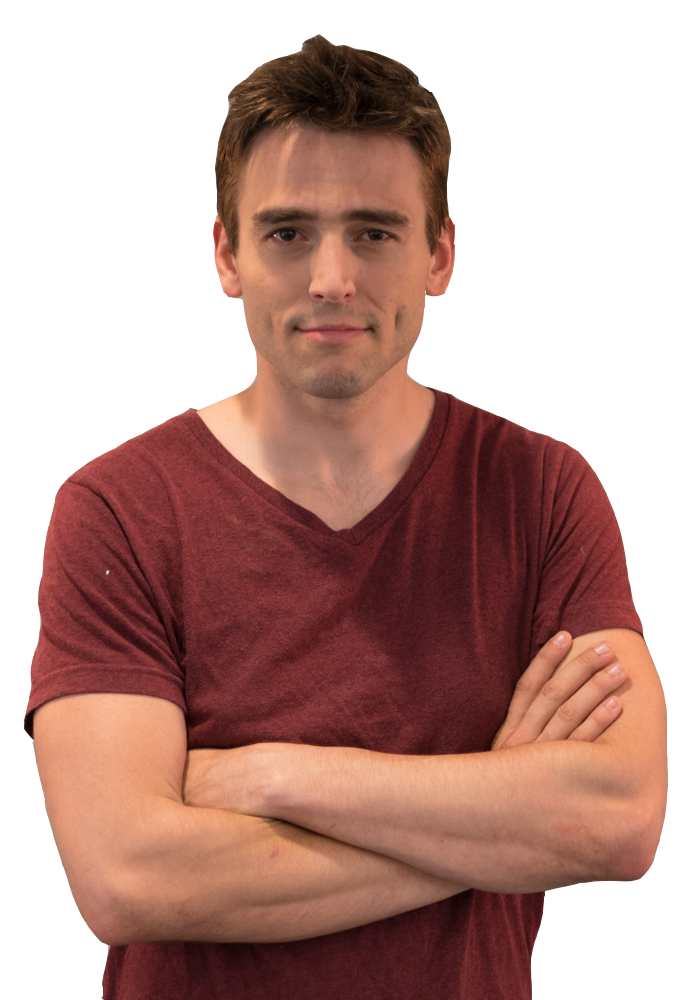
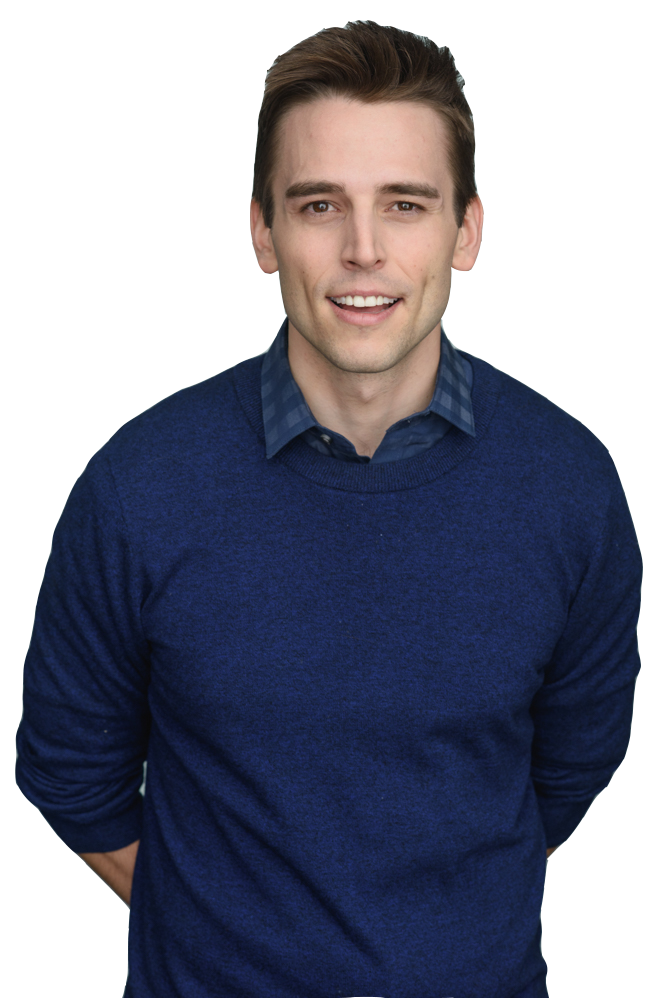
added photos and styling for finished look

diff --git a/public/stylesheets/style.min.css b/public/stylesheets/style.min.css
@@ -1,1 +1,1 @@
-*{margin:0;padding:0;box-sizing:border-box}body{font:14px 'Montserrat', sans-serif}a{color:#555}p{font-weight:bold}.section{position:relative;overflow:hidden;padding-top:80px}nav{background:transparent;box-shadow:none;top:0}nav .nav-wrapper .container{width:90%}nav ul a{font-size:20px;text-transform:uppercase}@media (max-width: 1691px){nav ul a{font-size:14px}}@media (max-width: 1358px){nav ul a{font-size:12px}}@media (max-width: 1307px){nav ul a{font-size:11px}}@media (max-width: 1258px){nav ul a{font-size:10px}}@media (max-width: 1209px){nav ul a{font-size:9px}}@media (max-width: 1164px){nav ul a{font-size:8px}}@media (max-width: 1115px){nav ul a{font-size:7px}}@media (max-width: 1066px){nav ul a{font-size:6px}}@media (max-width: 1020px){nav ul a{font-size:5px}}nav ul a:hover{background-color:transparent;color:#f3997b}nav ul .selected{border-bottom:2px solid white}@media (max-width: 992px){nav .social-media{position:absolute;text-align:center}}nav .social-media img{box-sizing:border-box;width:10%;display:inline;padding:5px;margin:15px 0 0 0}@media (max-width: 992px){nav .social-media img{width:18%}}@media (max-width: 761px){nav .social-media img{width:16%}}@media (max-width: 600px){nav .social-media img{width:8%}}@media (max-width: 375px){nav .social-media img{width:10%}}.navbar-fixed{position:fixed;right:0;left:0;z-index:1030}.side-nav{width:100% !important;background-color:#f3997b}.side-nav li a{font-size:40px;line-height:70px;padding:50px 32px}#footer{background-color:#303030;min-height:100px}.scroll-down{position:absolute;left:calc(50% - 25px);right:auto;bottom:10px;z-index:99;font-size:14px;text-align:center;text-transform:uppercase;color:#fff;-webkit-transition:color .314s ease;transition:color .314s ease}#home{min-height:840px;background:#1e2230 url(../images/home-background.jpg) no-repeat center bottom}@media (min-width: 769px) and (max-width: 992px){#home{min-height:50vh}}@media (min-width: 674px) and (max-width: 768px){#home{min-height:75vh}}@media (max-width: 673px){#home{min-height:50vh}}@media (max-width: 375px){#home{min-height:45vh}}#home .home-img{width:100%;margin:0 auto;align-self:center}#home .home-img img{display:block;margin:0 auto;width:100%}#home .scroll-down{color:#fff}#home .scroll-down a{color:#fff}#home .scroll-down i{display:block}#home .ability-section{padding:150px 20px;margin:50px auto;left:0;right:0;position:absolute;background:#E63215;min-height:600px;width:75%;border:10px solid #000}#home .ability-section img{width:50%;border:10px solid #000}#home .ability-section span{font-size:24px;color:#fff;text-shadow:-1px -1px 0 #000, 1px -1px 0 #000, -1px 1px 0 #000, 1px 1px 0 #000}#bio{background:#F8F8F8;min-height:740px;color:#555}@media (min-width: 769px) and (max-width: 992px){#bio{min-height:50vh}}@media (min-width: 674px) and (max-width: 768px){#bio{min-height:75vh}}@media (max-width: 673px){#bio{min-height:50vh}}@media (max-width: 375px){#bio{min-height:45vh}}#bio h1{color:#555}#bio p{font-size:18px;line-height:1.5}#bio p span{font-weight:bold}#bio img{position:absolute;left:30px;bottom:0px}#bio .scroll-down{color:#555}#bio .scroll-down a{color:#555}#bio .scroll-down i{display:block}#social{background:#add3ce;min-height:740px}#social p{font-size:18px;line-height:1.5;color:#fff}#social a{text-decoration:none}#social a span{color:#F25951}@media (min-width: 769px) and (max-width: 992px){#social{min-height:50vh}}@media (min-width: 674px) and (max-width: 768px){#social{min-height:75vh}}@media (max-width: 673px){#social{min-height:50vh}}@media (max-width: 375px){#social{min-height:45vh}}#social .scroll-down{color:#fff}#social .scroll-down a{color:#fff}#social .scroll-down i{display:block}#actor{background:#2f2f2f url(../images/host-background.jpg) no-repeat center top;background-size:cover;min-height:800px}@media (max-width: 992px){#actor{background-image:none;background-color:#2f2f2f}}@media (min-width: 769px) and (max-width: 992px){#actor{min-height:50vh}}@media (min-width: 674px) and (max-width: 768px){#actor{min-height:75vh}}@media (max-width: 673px){#actor{min-height:50vh}}@media (max-width: 375px){#actor{min-height:45vh}}#actor h3{color:#fff}#actor p{color:white;font-size:18px;line-height:1.5}#actor p span{display:inline-block;padding:0 0 0;font-weight:bold}#actor img{position:absolute;left:-230px;top:100px}@media (max-width: 1440px) and (min-width: 1220px){#actor img{position:absolute;left:-20%}}@media (max-width: 1119px){#actor img{right:200%}}@media (max-width: 1201px){#actor img{right:200%}}#actor .carousel-slider{min-height:140px}#actor .carousel-slider img{position:static}#actor .resume-list{line-height:1.5}#actor .special-skill-list{border-top:0 !important}#actor .collapsible{border-top:none;border-left:none;border-right:none;border-bottom:none;box-shadow:none}#actor .collapsible-header{color:#fff;background-color:inherit;border-top:1px solid #ddd;border-bottom:none}#actor .collapsible-header i{color:#3091ce}#actor .collapsible-header-end{border-bottom:1px solid #ddd}#actor .collapsible-body{color:#fff;border-top:1px solid #ddd}#actor .casting-logos-flex{display:flex;justify-content:center;margin-bottom:50px}#actor .casting-logos-flex .casting-logos img{width:45px;margin:0 10px;display:inline;position:static}@media (max-width: 375px){#actor .casting-logos-flex .casting-logos img{width:41px}}#actor .scroll-down{color:#fff}#actor .scroll-down a{color:#fff}#actor .scroll-down i{display:block}#host{background:#f7bdaa url(../images/actor-background.jpg) no-repeat center top;background-size:cover;min-height:740px}@media (min-width: 769px) and (max-width: 992px){#host{min-height:50vh}}@media (min-width: 674px) and (max-width: 768px){#host{min-height:75vh}}@media (max-width: 673px){#host{min-height:50vh}}@media (max-width: 375px){#host{min-height:45vh}}#host h1{color:#555}#host p{font-size:18px;line-height:1.5}#host p span{font-weight:bold}#host .credits{margin-top:25px}#host .credits .collapsible{border-top:1px solid #555;border-left:0;border-right:0;box-shadow:none;margin:40px 0}#host .credits .collapsible-header{background-color:transparent;border-bottom:1px solid #555}#host .credits .collapsible-body{border-bottom:1px solid #555}#host #microman{position:absolute;margin-right:69px;right:0;bottom:0px;width:20%}@media (max-width: 992px){#host #microman{display:none}}#host .scroll-down{color:#555}#host .scroll-down a{color:#555}#host .scroll-down i{display:block}#production{background:#e5e5e5 url(../images/production-background.jpg) no-repeat center top;background-size:cover;min-height:740px}@media (min-width: 769px) and (max-width: 992px){#production{min-height:50vh}}@media (min-width: 674px) and (max-width: 768px){#production{min-height:75vh}}@media (max-width: 673px){#production{min-height:50vh}}@media (max-width: 375px){#production{min-height:45vh}}#production .photo-element{position:absolute}#production #camera{top:130px;right:0;z-index:10}@media (max-width: 1024px){#production #camera{right:-155px}}@media (max-width: 992px){#production #camera{display:none}}#production #cable{right:10%;bottom:-265px;z-index:11}@media (max-width: 992px){#production #cable{display:none}}#production #microphone{bottom:-175px;left:-100px;z-index:8}@media (max-width: 1024px){#production #microphone{left:-255px}}@media (max-width: 992px){#production #microphone{display:none}}#production .bmp-logo{width:35%;margin-bottom:25px;margin-top:75px}#production #bmp-bio p{padding:0 19px;color:#737373;font-size:18px;line-height:1.5}@media (max-width: 992px){#production #bmp-bio p{padding:0}}#production .clip-list li{font-family:'Fontdiner Swanky', cursive;position:relative;background-color:#3091ce;border:2px solid #737373;padding:20px 0;margin:0 0 10px;z-index:10;color:#fff;font-size:18px}#production .collapsible-header{background-color:inherit;border-top:1px solid #ddd}#production .collapsible-header i{color:#3091ce}#production #equipment-rental{padding:0 40px;color:#737373}#production #equipment-rental .equipment-list li{text-align:left;line-height:1.5}#production #bmp-contact{margin-top:30px;margin-bottom:50px;color:#737373}#production #bmp-contact p{font-size:18px}#production #bmp-contact a{color:#3091ce}#production .scroll-down{color:#555}#production .scroll-down a{color:#555}#production .scroll-down i{display:block}#quote{background-color:#D7D5E6;min-height:740px}@media (min-width: 769px) and (max-width: 992px){#quote{min-height:50vh}}@media (min-width: 674px) and (max-width: 768px){#quote{min-height:75vh}}@media (max-width: 673px){#quote{min-height:50vh}}@media (max-width: 375px){#quote{min-height:45vh}}#quote h1{color:#555}#quote img{width:50vw;position:absolute;bottom:-2px;right:5px}@media (max-width: 992px){#quote img{display:none}}#quote .quote-paragraph{line-height:2.0;text-align:left;padding:0 40px;font-size:50px;line-height:1.5;color:#555}#quote .quote-paragraph .quoter{text-align:right}#quote .scroll-down{color:#555}#quote .scroll-down a{color:#555}#quote .scroll-down i{display:block}#contact{background:#9a9a9a}@media (min-width: 769px) and (max-width: 992px){#contact{min-height:50vh}}@media (min-width: 674px) and (max-width: 768px){#contact{min-height:75vh}}@media (max-width: 673px){#contact{min-height:50vh}}@media (max-width: 375px){#contact{min-height:45vh}}#contact img{width:50vh}@media (max-width: 992px){#contact img{display:none}}#contact .contact-header{font-size:9em;color:#434343}@media (min-width: 769px){#contact .contact-header{font-size:6.5em}}@media (max-width: 768px){#contact .contact-header{font-size:6em}}@media (max-width: 505px){#contact .contact-header{font-size:3.5em}}@media (max-width: 425px){#contact .contact-header{font-size:3em}}#contact .contact-items .commercial-logo{border:4px solid #555}#contact .contact-items i{color:#434343;font-size:4em}#contact .contact-items span{font-size:18px;color:#fff;padding-top:10px;display:block}#contact input:not([type]),#contact input[type=text],#contact input[type=password],#contact input[type=email],#contact input[type=url],#contact input[type=time],#contact input[type=date],#contact input[type=datetime],#contact input[type=datetime-local],#contact input[type=tel],#contact input[type=number],#contact input[type=search],#contact textarea.materialize-textarea{border-bottom:1px solid #434343}#contact .input-field label{color:#434343}#contact input::-webkit-input-placeholder{color:#434343 !important}#contact input:-moz-placeholder{color:#434343 !important}#contact input::-moz-placeholder{color:#434343 !important}#contact input:-ms-input-placeholder{color:#434343 !important}#contact .input-field input[type=text]:focus+label{color:#555}#contact .input-field input[type=text]:focus{border-bottom:1px solid #555;box-shadow:0 1px 0 0 #555}#contact .scroll-down{color:#555}#contact .scroll-down a{color:#555}#contact .scroll-down i{display:block}#featured-modal{height:800px}#featured-modal .carousel.carousel-slider{min-height:690px}#featured-modal .carousel.carousel-slider .video-container{margin:45px 0}#featured-modal .carousel .indicators .indicator-item.active{background-color:#3091ce !important}#featured-modal .carousel .indicators .indicator-item{background-color:#b9b9b9 !important}#seasonOne-modal,#seasonTwo-modal{height:500px}#seasonOne-modal .carousel.carousel-slider,#seasonTwo-modal .carousel.carousel-slider{min-height:380px}#seasonOne-modal .carousel.carousel-slider .video-container,#seasonTwo-modal .carousel.carousel-slider .video-container{margin:45px 0}#seasonOne-modal .carousel .indicators .indicator-item.active,#seasonTwo-modal .carousel .indicators .indicator-item.active{background-color:#3091ce !important}#seasonOne-modal .carousel .indicators .indicator-item,#seasonTwo-modal .carousel .indicators .indicator-item{background-color:#b9b9b9 !important}.modal i{color:#3091ce}
+*{margin:0;padding:0;box-sizing:border-box}body{font:14px 'Montserrat', sans-serif}a{color:#555}p{font-weight:bold}.section{position:relative;overflow:hidden;padding-top:80px}nav{background:transparent;box-shadow:none;top:0}nav .nav-wrapper .container{width:100%}nav ul a{font-size:14px;text-transform:uppercase}nav ul a:hover{background-color:transparent;color:#f3997b}nav ul .selected{border-bottom:2px solid white}@media (max-width: 992px){nav .social-media{position:absolute;text-align:center}}nav .social-media img{box-sizing:border-box;width:13%;display:inline;padding:5px;margin:15px 0 0 0}@media (max-width: 992px){nav .social-media img{width:18%}}@media (max-width: 761px){nav .social-media img{width:16%}}@media (max-width: 600px){nav .social-media img{width:8%}}@media (max-width: 375px){nav .social-media img{width:10%}}.navbar-fixed{position:fixed;right:0;left:0;z-index:1030}.side-nav{width:100% !important;background-color:#f3997b}.side-nav li a{font-size:40px;line-height:70px;padding:50px 32px}#footer{background-color:#303030;min-height:100px}.scroll-down{position:absolute;left:calc(50% - 25px);right:auto;bottom:10px;z-index:99;font-size:14px;text-align:center;text-transform:uppercase;color:#fff;-webkit-transition:color .314s ease;transition:color .314s ease}#home{min-height:950px;background:#1e2230 url(../images/home-background.jpg) no-repeat center bottom}@media (min-width: 769px) and (max-width: 992px){#home{min-height:50vh}}@media (min-width: 674px) and (max-width: 768px){#home{min-height:75vh}}@media (max-width: 673px){#home{min-height:50vh}}@media (max-width: 375px){#home{min-height:45vh}}#home .jonathan-main{position:relative;left:0;background:url("../images/jonathan-main-black.png") no-repeat center bottom;width:100%;height:750px;top:0}@media screen and (max-height: 765px) and (min-width: 992px){#home .jonathan-main{height:772px}}@media screen and (max-height: 1060px) and (min-width: 768px){#home .jonathan-main{background-size:cover;background-position:center top}}@media screen and (min-width: 320px){#home .jonathan-main{width:596px;background-position:center center;margin:0 auto;top:60px}}#home .home-img{width:100%;margin:0 auto;align-self:center}#home .home-img img{display:block;margin:0 auto;width:60%}#home .scroll-down{color:#fff}#home .scroll-down a{color:#fff}#home .scroll-down i{display:block}#home .ability-section{padding:150px 20px;margin:50px auto;left:0;right:0;position:absolute;background:#E63215;min-height:600px;width:75%;border:10px solid #000}#home .ability-section img{width:50%;border:10px solid #000}#home .ability-section span{font-size:24px;color:#fff;text-shadow:-1px -1px 0 #000, 1px -1px 0 #000, -1px 1px 0 #000, 1px 1px 0 #000}#bio{background:#F8F8F8;min-height:900px;color:#555}@media (min-width: 769px) and (max-width: 992px){#bio{min-height:50vh}}@media (min-width: 674px) and (max-width: 768px){#bio{min-height:75vh}}@media (max-width: 673px){#bio{min-height:50vh}}@media (max-width: 375px){#bio{min-height:45vh}}#bio h1{color:#555}#bio p{font-size:18px;line-height:1.5}#bio p span{font-weight:bold}#bio img{position:absolute;width:29vw;left:150px;bottom:-4px}@media (max-width: 1700px) and (min-width: 1601px){#bio img{width:35vw;left:150px}}@media (max-width: 1600px) and (min-width: 1581px){#bio img{width:32vw;left:150px}}@media (max-width: 1580px){#bio img{width:38vw;left:60px}}#bio .scroll-down{color:#555}#bio .scroll-down a{color:#555}#bio .scroll-down i{display:block}#social{background:#add3ce;min-height:740px}#social p{font-size:18px;line-height:1.5;color:#fff}#social a{text-decoration:none}#social a span{color:#F25951}@media (min-width: 769px) and (max-width: 992px){#social{min-height:50vh}}@media (min-width: 674px) and (max-width: 768px){#social{min-height:75vh}}@media (max-width: 673px){#social{min-height:50vh}}@media (max-width: 375px){#social{min-height:45vh}}#social .scroll-down{color:#fff}#social .scroll-down a{color:#fff}#social .scroll-down i{display:block}#actor{background:#2f2f2f url(../images/host-background.jpg) no-repeat center top;background-size:cover;min-height:800px}@media (max-width: 992px){#actor{background-image:none;background-color:#2f2f2f}}@media (min-width: 769px) and (max-width: 992px){#actor{min-height:50vh}}@media (min-width: 674px) and (max-width: 768px){#actor{min-height:75vh}}@media (max-width: 673px){#actor{min-height:50vh}}@media (max-width: 375px){#actor{min-height:45vh}}#actor h3{color:#fff}#actor p{color:white;font-size:18px;line-height:1.5}#actor p span{display:inline-block;padding:0 0 0;font-weight:bold}#actor img{position:absolute;left:-92px;top:114px}@media (max-width: 1024px){#actor img{left:-410px;top:214px}}@media (max-width: 1440px) and (min-width: 1220px){#actor img{position:absolute;left:-20%}}@media (max-width: 1119px){#actor img{right:200%}}@media (max-width: 1201px){#actor img{right:200%}}#actor .carousel-slider{min-height:140px}#actor .carousel-slider img{position:static}#actor .carousel-slider .indicators .indicator-item{display:none}#actor .hide-video-container{z-index:-1}#actor .resume-list{line-height:1.5}#actor .special-skill-list{border-top:0 !important}#actor .collapsible{border-top:none;border-left:none;border-right:none;border-bottom:none;box-shadow:none}#actor .collapsible-header{color:#fff;background-color:inherit;border-top:1px solid #ddd;border-bottom:none}#actor .collapsible-header i{color:#3091ce}#actor .collapsible-header-end{border-bottom:1px solid #ddd}#actor .collapsible-body{color:#fff;border-top:1px solid #ddd}#actor .casting-logos-flex{display:flex;justify-content:center;margin-bottom:50px}#actor .casting-logos-flex .casting-logos img{width:45px;margin:0 10px;display:inline;position:static}@media (max-width: 375px){#actor .casting-logos-flex .casting-logos img{width:41px}}#actor .scroll-down{color:#fff}#actor .scroll-down a{color:#fff}#actor .scroll-down i{display:block}#host{background:#f7bdaa url(../images/actor-background.jpg) no-repeat center top;background-size:cover;min-height:740px;color:#555}@media (min-width: 769px) and (max-width: 992px){#host{min-height:50vh}}@media (min-width: 674px) and (max-width: 768px){#host{min-height:75vh}}@media (max-width: 673px){#host{min-height:50vh}}@media (max-width: 375px){#host{min-height:45vh}}#host h1{color:#555}#host .carousel{width:550px;height:590px !important}#host .carousel img{width:72%}#host .carousel .indicators .indicator-item{display:none}#host p{font-size:18px;line-height:1.5}#host p span{font-weight:bold}#host .credits{margin-top:25px}#host .credits .collapsible{border-top:1px solid #555;border-left:0;border-right:0;box-shadow:none;margin:40px 0}#host .credits .collapsible-header{background-color:transparent;border-bottom:1px solid #555;text-align:center}#host .credits .collapsible-body{border-bottom:1px solid #555}#host #microman{position:absolute;margin-right:69px;right:0;bottom:0px;width:20%}@media (max-width: 992px){#host #microman{display:none}}#host .scroll-down{color:#555}#host .scroll-down a{color:#555}#host .scroll-down i{display:block}#production{background:#e5e5e5 url(../images/production-background.jpg) no-repeat center top;background-size:cover;min-height:740px}@media (min-width: 769px) and (max-width: 992px){#production{min-height:50vh}}@media (min-width: 674px) and (max-width: 768px){#production{min-height:75vh}}@media (max-width: 673px){#production{min-height:50vh}}@media (max-width: 375px){#production{min-height:45vh}}#production .photo-element{position:absolute}#production #camera{top:130px;right:0;z-index:10}@media (max-width: 1024px){#production #camera{right:-155px}}@media (max-width: 992px){#production #camera{display:none}}#production #cable{right:10%;bottom:-265px;z-index:11}@media (max-width: 992px){#production #cable{display:none}}#production #microphone{bottom:-175px;left:-100px;z-index:8}@media (max-width: 1024px){#production #microphone{left:-255px}}@media (max-width: 992px){#production #microphone{display:none}}#production .bmp-logo{width:35%;margin-bottom:25px;margin-top:75px}#production #bmp-bio p{padding:0 19px;color:#737373;font-size:18px;line-height:1.5}@media (max-width: 992px){#production #bmp-bio p{padding:0}}#production .clip-list li{font-family:'Fontdiner Swanky', cursive;position:relative;background-color:#3091ce;border:2px solid #737373;padding:20px 0;margin:0 0 10px;z-index:10;color:#fff;font-size:18px}#production .collapsible-header{background-color:inherit;border-top:1px solid #ddd}#production .collapsible-header i{color:#3091ce}#production #equipment-rental{padding:0 40px;color:#737373}#production #equipment-rental .equipment-list li{text-align:left;line-height:1.5}#production #bmp-contact{margin-top:30px;margin-bottom:50px;color:#737373}#production #bmp-contact p{font-size:18px}#production #bmp-contact a{color:#3091ce}#production .scroll-down{color:#555}#production .scroll-down a{color:#555}#production .scroll-down i{display:block}#quote{background-color:#D7D5E6;min-height:740px}@media (min-width: 769px) and (max-width: 992px){#quote{min-height:50vh}}@media (min-width: 674px) and (max-width: 768px){#quote{min-height:75vh}}@media (max-width: 673px){#quote{min-height:50vh}}@media (max-width: 375px){#quote{min-height:45vh}}#quote h1{color:#555}#quote img{width:25vw;position:absolute;bottom:-4px;right:90px}@media (max-width: 1700px) and (min-width: 1601px){#quote img{width:24vw;right:150px}}@media (max-width: 1600px) and (min-width: 1581px){#quote img{width:25vw;right:150px}}@media (max-width: 1580px){#quote img{width:28vw;right:170px}}@media (max-width: 992px){#quote img{display:none}}#quote .quote-paragraph{line-height:2.0;text-align:left;padding:0 40px;font-size:50px;line-height:1.5;color:#555}#quote .quote-paragraph span{font-weight:100}#quote .quote-paragraph .quoter{text-align:right}#quote .scroll-down{color:#555}#quote .scroll-down a{color:#555}#quote .scroll-down i{display:block}#contact{background:#9a9a9a}@media (min-width: 769px) and (max-width: 992px){#contact{min-height:50vh}}@media (min-width: 674px) and (max-width: 768px){#contact{min-height:75vh}}@media (max-width: 673px){#contact{min-height:50vh}}@media (max-width: 375px){#contact{min-height:45vh}}#contact h5{color:#434343;font-weight:bold}#contact img{width:50vh;margin:0 auto;display:block}@media (max-width: 992px){#contact img{display:none}}#contact .contact-header{font-size:9em;color:#434343}@media (min-width: 769px){#contact .contact-header{font-size:6.5em}}@media (max-width: 768px){#contact .contact-header{font-size:6em}}@media (max-width: 505px){#contact .contact-header{font-size:3.5em}}@media (max-width: 425px){#contact .contact-header{font-size:3em}}#contact .contact-items .commercial-logo{border:4px solid #555}#contact .contact-items i{color:#434343;font-size:4em}#contact .contact-items span{font-size:18px;color:#fff;padding-top:10px;display:block}#contact input:not([type]),#contact input[type=text],#contact input[type=password],#contact input[type=email],#contact input[type=url],#contact input[type=time],#contact input[type=date],#contact input[type=datetime],#contact input[type=datetime-local],#contact input[type=tel],#contact input[type=number],#contact input[type=search],#contact textarea.materialize-textarea{border-bottom:1px solid #434343}#contact .input-field label{color:#434343}#contact input::-webkit-input-placeholder{color:#434343 !important}#contact input:-moz-placeholder{color:#434343 !important}#contact input::-moz-placeholder{color:#434343 !important}#contact input:-ms-input-placeholder{color:#434343 !important}#contact .input-field input[type=text]:focus+label{color:#555}#contact .input-field input[type=text]:focus{border-bottom:1px solid #555;box-shadow:0 1px 0 0 #555}#contact .scroll-down{color:#555}#contact .scroll-down a{color:#555}#contact .scroll-down i{display:block}#featured-modal{height:800px}#featured-modal .carousel.carousel-slider{min-height:690px}#featured-modal .carousel.carousel-slider .video-container{margin:45px 0}#featured-modal .carousel .indicators .indicator-item.active{background-color:#3091ce !important}#featured-modal .carousel .indicators .indicator-item{background-color:#b9b9b9 !important}#seasonOne-modal,#seasonTwo-modal{height:500px}#seasonOne-modal .carousel.carousel-slider,#seasonTwo-modal .carousel.carousel-slider{min-height:380px}#seasonOne-modal .carousel.carousel-slider .video-container,#seasonTwo-modal .carousel.carousel-slider .video-container{margin:45px 0}#seasonOne-modal .carousel .indicators .indicator-item.active,#seasonTwo-modal .carousel .indicators .indicator-item.active{background-color:#3091ce !important}#seasonOne-modal .carousel .indicators .indicator-item,#seasonTwo-modal .carousel .indicators .indicator-item{background-color:#b9b9b9 !important}.modal i{color:#3091ce}.flex-container{display:flex;justify-content:center}

diff --git a/public/stylesheets/style.scss b/public/stylesheets/style.scss
@@ -31,41 +31,12 @@ nav {
 
   .nav-wrapper {
     .container {
-      width: 90%;
+      width: 100%;
     }
   }
   ul{
     a{
-
-      @media (max-width: 1691px){
-        font-size: 14px;
-      }
-
-      @media (max-width: 1358px){
-        font-size: 12px;
-      }
-      @media (max-width: 1307px){
-        font-size: 11px;
-      }
-      @media (max-width: 1258px){
-        font-size: 10px;
-      }
-      @media (max-width: 1209px){
-        font-size: 9px;
-      }
-      @media (max-width: 1164px){
-        font-size: 8px;
-      }
-      @media (max-width: 1115px){
-        font-size: 7px;
-      }
-      @media (max-width: 1066px){
-        font-size: 6px;
-      }
-      @media (max-width: 1020px){
-        font-size: 5px;
-      }
-      font-size: 20px;
+      font-size: 14px;
       text-transform: uppercase;
 
     }
@@ -91,7 +62,7 @@ nav {
 
     img {
       box-sizing: border-box;
-      width: 10%;
+      width: 13%;
       display: inline;
       padding: 5px;
       margin: 15px 0 0 0;
@@ -159,7 +130,7 @@ nav {
 #home {
   // position: relative;
   // top: 0;
-  min-height: 840px;
+  min-height: 950px;
   background: #1e2230 url(../images/home-background.jpg) no-repeat center bottom;
 
   @media (min-width: 769px) and (max-width: 992px){
@@ -175,6 +146,31 @@ nav {
     min-height: 45vh;
   }
 
+  .jonathan-main {
+    position: relative;
+    left: 0;
+    background: url("../images/jonathan-main-black.png") no-repeat center bottom;
+    width: 100%;
+    height: 750px;
+    top: 0;
+
+    @media screen and (max-height: 765px) and (min-width: 992px){
+      height: 772px;
+    }
+
+    @media screen and (max-height: 1060px) and (min-width: 768px){
+      background-size: cover;
+      background-position: center top;
+    }
+
+    @media screen and (min-width: 320px){
+      width: 596px;
+      background-position: center center;
+      margin: 0 auto;
+      top: 60px;
+    }
+  }
+
   .home-img {
     width: 100%;
     margin: 0 auto;
@@ -184,7 +180,7 @@ nav {
     img {
       display: block;
       margin: 0 auto;
-      width: 100%;
+      width: 60%;
     }
 
   }
@@ -229,7 +225,7 @@ nav {
 
 #bio {
   background: #F8F8F8;
-  min-height: 740px;
+  min-height: 900px;
   color: #555;
 
   @media (min-width: 769px) and (max-width: 992px){
@@ -259,10 +255,23 @@ nav {
 
   img {
     position: absolute;
-    left: 30px;
-    bottom: 0px;
-    @media (min-width: 1440px){
+    width: 29vw;
+    left: 150px;
+    bottom: -4px;
 
+    @media (max-width: 1700px) and (min-width: 1601px){
+      width: 35vw;
+      left: 150px;
+    }
+
+    @media (max-width: 1600px) and (min-width: 1581px){
+      width: 32vw;
+      left: 150px;
+
+    }
+    @media (max-width: 1580px){
+      width: 38vw;
+      left: 60px;
     }
   }
 
@@ -358,8 +367,12 @@ nav {
   }
   img {
     position: absolute;
-    left: -230px;
-    top: 100px;
+    left: -92px;
+    top: 114px;
+    @media (max-width: 1024px){
+      left: -410px;
+      top: 214px;
+    }
   }
   @media (max-width: 1440px) and (min-width: 1220px){
     img{
@@ -386,6 +399,15 @@ nav {
     img {
       position: static;
     }
+    .indicators {
+      .indicator-item {
+        display: none;
+      }
+    }
+  }
+
+  .hide-video-container {
+    z-index: -1;
   }
 
   .resume-list {
@@ -460,7 +482,7 @@ nav {
   background: #f7bdaa url(../images/actor-background.jpg) no-repeat center top;
   background-size: cover;
   min-height: 740px;
-
+  color: #555;
 
   @media (min-width: 769px) and (max-width: 992px){
     min-height: 50vh;
@@ -477,6 +499,20 @@ nav {
 
   h1 {
     color: #555;
+  }
+
+  .carousel {
+    width: 550px;
+    height: 590px !important;
+
+    img {
+      width: 72%;
+    }
+    .indicators {
+      .indicator-item {
+        display: none;
+      }
+    }
   }
 
   p {
@@ -502,6 +538,7 @@ nav {
     .collapsible-header {
       background-color: transparent;
       border-bottom: 1px solid #555;
+      text-align: center;
     }
 
     .collapsible-body {
@@ -711,13 +748,31 @@ nav {
   }
 
   img {
-    width: 50vw;
+    width: 25vw;
     position: absolute;
-    bottom: -2px;
-    right: 5px;
+    bottom: -4px;
+    right: 90px;
+
+    @media (max-width: 1700px) and (min-width: 1601px){
+      width: 24vw;
+      right: 150px;
+    }
+
+    @media (max-width: 1600px) and (min-width: 1581px){
+      width: 25vw;
+      right: 150px;
+
+    }
+    @media (max-width: 1580px){
+      width: 28vw;
+      right: 170px;
+    }
+
     @media(max-width: 992px){
       display: none;
     }
+
+
   }
 
   .quote-paragraph {
@@ -727,6 +782,10 @@ nav {
     font-size: 50px;
     line-height: 1.5;
     color: #555;
+
+    span {
+      font-weight: 100;
+    }
 
     .quoter {
       text-align: right;
@@ -763,8 +822,15 @@ nav {
     min-height: 45vh;
   }
 
+  h5 {
+    color: #434343;
+    font-weight: bold;
+  }
+
   img {
     width: 50vh;
+    margin: 0 auto;
+    display: block;
     @media(max-width: 992px){
       display: none;
     }
@@ -900,4 +966,9 @@ nav {
   i {
     color:#3091ce;
   }
+}
+
+.flex-container {
+  display: flex;
+  justify-content: center;
 }

diff --git a/public/javascripts/app.js b/public/javascripts/app.js
@@ -45,14 +45,14 @@ $(document).ready(()=>{
 
       $(navItems[4]).addClass("selected");
 
-      $(".navbar li>a").css({"color": "#737373", "border-color": "#737373"});
+      $(".navbar li>a").css({"color": "#555", "border-color": "#737373"});
       $("#brutus-icon").attr("src", "images/barking-dog-512-dark.png");
       $("#facebook-icon").attr("src", "images/facebook-512-dark.png");
       $("#instagram-icon").attr("src", "images/instagram-512-dark.png");
       $("#twitter-icon").attr("src", "images/twitter-512-dark.png");
       $("#youtube-icon").attr("src", "images/youtube-512-dark.png");
 
-      $(".button-collapse>i").css("color", "#737373");
+      $(".button-collapse>i").css("color", "#555");
 
 
     } else if ($(this).scrollTop()>=$('#production').position().top){
@@ -63,14 +63,14 @@ $(document).ready(()=>{
 
       $(navItems[4]).addClass("selected");
 
-      $(".navbar li>a").css({"color": "#737373", "border-color": "#737373"});
+      $(".navbar li>a").css({"color": "#555", "border-color": "#737373"});
       $("#brutus-icon").attr("src", "images/barking-dog-512-dark.png");
       $("#facebook-icon").attr("src", "images/facebook-512-dark.png");
       $("#instagram-icon").attr("src", "images/instagram-512-dark.png");
       $("#twitter-icon").attr("src", "images/twitter-512-dark.png");
       $("#youtube-icon").attr("src", "images/youtube-512-dark.png");
 
-      $(".button-collapse>i").css("color", "#737373");
+      $(".button-collapse>i").css("color", "#555");
 
 
     }else if ($(this).scrollTop()>=$('#host').position().top){
@@ -81,14 +81,14 @@ $(document).ready(()=>{
 
       $(navItems[3]).addClass("selected");
 
-      $(".navbar li>a").css({"color": "#737373", "border-color": "#737373"});
+      $(".navbar li>a").css({"color": "#555", "border-color": "#737373"});
       $("#brutus-icon").attr("src", "images/barking-dog-512-dark.png");
       $("#facebook-icon").attr("src", "images/facebook-512-dark.png");
       $("#instagram-icon").attr("src", "images/instagram-512-dark.png");
       $("#twitter-icon").attr("src", "images/twitter-512-dark.png");
       $("#youtube-icon").attr("src", "images/youtube-512-dark.png");
 
-      $(".button-collapse>i").css("color", "#737373");
+      $(".button-collapse>i").css("color", "#555");
 
 
     } else if ($(this).scrollTop()>=$('#actor').position().top){
@@ -129,7 +129,7 @@ $(document).ready(()=>{
 
     } else if ($(this).scrollTop()>=$('#bio').position().top){
 
-      $(".navbar li>a").css({"color": "#737373", "border-color": "#737373"});
+      $(".navbar li>a").css({"color": "#555", "border-color": "#737373"});
 
       $("#brutus-icon").attr("src", "images/barking-dog-512-dark.png");
       $("#facebook-icon").attr("src", "images/facebook-512-dark.png");
@@ -137,7 +137,7 @@ $(document).ready(()=>{
       $("#twitter-icon").attr("src", "images/twitter-512-dark.png");
       $("#youtube-icon").attr("src", "images/youtube-512-dark.png");
 
-      $(".button-collapse>i").css("color", "#737373");
+      $(".button-collapse>i").css("color", "#555");
 
     } else {
 
@@ -198,9 +198,26 @@ $(document).ready(()=>{
   });
 
   $('.carousel.carousel-slider').carousel({
-      fullWidth: true
+      fullWidth: true,
+      indicators: false
     });
 
+    //Call to function that handles carousel autoplay.
+    autoplay();
+    function autoplay() {
+        $('#host-action-loop').carousel('next');
+        setTimeout(autoplay, 4000);
+    }
+
+
+
+
   $('.materialboxed').materialbox();
+
+$('.materialboxed').click(()=>{
+  $('.video-container').toggleClass("hide-video-container");
+});
+
+
 
 });
